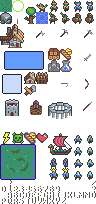
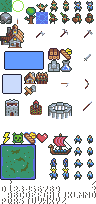
ui nicer

Changed region(s): [[0.5, 0.2353, 0.75, 0.3529], [0.0, 0.1176, 0.1562, 0.2059]]

diff --git a/src/js/ui/renderUI.js b/src/js/ui/renderUI.js
@@ -160,11 +160,15 @@ function drawUiBox(uiPos, tileInfo, text) {
 		vec2(4, 2),
 		tile(vec2(0, 48), vec2(48, 24))
 	);
+	drawRect(
+		uiPos.subtract(vec2(0.9, .03)),
+		vec2(1.2),
+		new Color(48 / 255, 96 / 255, 130 / 255)
+	);
 	drawTile(
-		uiPos.subtract(vec2(0.8, 0)),
+		uiPos.subtract(vec2(0.9, 0)),
 		vec2(1),
-		tileInfo,
-		new Color(1, 1, 1, 0.7)
+		tileInfo
 	);
 
 	GLOBAL.uiFont.drawText(
